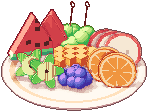
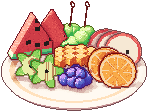
像素 skill：照拼豆图纸加颗粒、亮条、节间深色带、单色轮廓；可颂和果盘先用上
她发了可颂和果盘的拼豆图纸（一格一个色号 = 一个像素），让我看跟我画的哪不一样。对下来差五处：

1. 颜色：图纸一个可颂 11–18 色，近白淡黄到近黑深棕；我七档，跨度小
2. 颗粒：图纸同一块面上相邻两档一颗一颗掺着（酥皮质感）；我专门有一步清杂点把它们抹掉了
3. 折痕：图纸节间是两三颗宽的深色带、连到外轮廓；我是一像素细线
4. 高光：图纸每节上沿一条淡黄亮条、零星近白点；我是一片柔和高光
5. 轮廓：图纸只一种最深色；我描边里又贴一圈浓色，把台阶磨平了

## pixelkit

- `Material.grain`：清杂点之后按像素哈希把少量像素上下挪一档
- `Material.streak`：最亮两档里随机点亮（横向成段），往白里提 45%
- `Scene.seam / seam_depth / seam_all`：节间深线宽几像素、压暗几档、不同组相接就描（不管前后差）
- `Scene.inner_ring=False`：去掉描边里那圈浓色
- `Scene.contour=True`：两件东西相接时靠前那件描自己的轮廓色（可颂压在盘子上是深棕边，
  不是盘子被压暗的浅蓝）

## 用上

可颂：九色暖棕色阶（直接给）、颗粒 0.65、亮条、节间深带 2px/压暗 3 档、单色轮廓 + 接触描边。
果盘：每样水果加颗粒和亮条，西瓜籽纯黑，接触描边。

diff --git a/.claude/skills/pixel-art/pixelkit.py b/.claude/skills/pixel-art/pixelkit.py
@@ -151,6 +151,13 @@ class Material:
     shine: float = 0.55
     depth: float = 0.8
     style: Optional[str] = None
+    # 颗粒：同一块面上相邻两档颜色**一颗一颗掺着**（0..1）。
+    # 她给的拼豆图纸里，可颂一块面团上 A10 里夹着 G6、A26、A17——酥皮的质感全靠这个。
+    # 没有颗粒的面是一整片干净色块，看着像塑料。面包、蛋糕胚、木头、布给 0.4–0.7；瓷、玻璃、金属给 0。
+    grain: float = 0.0
+    # 高光亮条：受光最亮那一圈里，随机挑一些像素顶到最亮、再往亮里提一截（0..1）。
+    # 图纸里每一节隆起的上沿都有一条淡黄亮条、零星几颗近白的点。
+    streak: float = 0.0
     colors: list = field(default_factory=list)
 
     def __post_init__(self):
@@ -329,10 +336,22 @@ VIEWS = {
 
 class Scene:
     def __init__(self, size=96, view="iso", units=4.0, height=None,
-                 target=(0, 0, 0), light=(-0.55, 0.85, 0.45), dither=0.6):
+                 target=(0, 0, 0), light=(-0.55, 0.85, 0.45), dither=0.6,
+                 seam=1, seam_depth=2, inner_ring=True, seam_all=False, contour=False):
         """`size` 输出多少像素宽；`units` 画面宽对应世界里多少单位（决定颗粒度）。"""
         self.W = size
         self.H = height or size
+        # 节间深线：宽几个像素、压暗几档。图纸里可颂节与节之间是两三颗宽的深色带，一直连到外轮廓
+        self.seam = seam
+        self.seam_depth = seam_depth
+        # 不同组相接就描（不管前后差多少）。可颂一节压一节，前后差得少，不开这个描不出来
+        self.seam_all = seam_all
+        # 描边里面那一圈浓色。图纸的轮廓是**一种颜色一圈**，里面那圈会把台阶磨平——需要台阶感时关掉
+        self.inner_ring = inner_ring
+        # 两件东西相接时，**靠前那一侧描自己的轮廓色**（深色一圈）。
+        # 图纸里每样东西贴着别的东西的那条边都是它自己最深的颜色——可颂压在盘子上，
+        # 可颂那一圈是深棕，不是盘子被压暗的浅蓝
+        self.contour = contour
         self.units = units
         self.dither = dither
         yaw, pitch = VIEWS[view] if isinstance(view, str) else view
@@ -514,6 +533,7 @@ class Scene:
             _clean(col, lev, mat)
         if crease:
             _crease(col, lev, mat, grp, dep, N, sub, self)
+        _grain(col, lev, mat, sub)
         if outline:
             _outline(col, lev, mat, grp, dep, solid, self)
         if glass:
@@ -591,6 +611,8 @@ def _outline(col, lev, mat, grp, dep, items, scene):
     # 描边里面再贴一圈：压到这种材质的第二暗档。参照图的轮廓都是「深线 + 一道浓色」
     # 两层，只有一层深线的话东西像剪下来贴上去的
     inner = _edges(filled & ~edge) & ~edge
+    if not scene.inner_ring:
+        inner = np.zeros_like(inner)
     for i, m in matobj.items():
         mm = inner & (base_i == i)
         if mm.any() and not m.emissive:
@@ -607,18 +629,71 @@ def _outline(col, lev, mat, grp, dep, items, scene):
         diff = (grp[a] != grp[b]) & filled[a] & filled[b]
         dd = np.where(np.isfinite(dep), dep, 1e6)
         far = np.abs(dd[a] - dd[b]) > px * 1.5
-        m = diff & far
+        m = diff & (far | scene.seam_all)
         back_is_b = dep[b] > dep[a]
-        for sel, sl in ((m & back_is_b, b), (m & ~back_is_b, a)):
+        if scene.contour:
+            for sel, sl in ((m & back_is_b, a), (m & ~back_is_b, b)):
+                ys, xs = np.nonzero(sel)
+                ys = ys + sl[0].start; xs = xs + sl[1].start
+                for y, x in zip(ys, xs):
+                    mo = matobj.get(mat[y, x] // 16)
+                    if mo is not None and not mo.emissive:
+                        col[y, x, :3] = _outline_color(mo)
+        for sel, sl, sy, sx in ((m & back_is_b, b, dy, dx), (m & ~back_is_b, a, -dy, -dx)):
             ys, xs = np.nonzero(sel)
             ys = ys + sl[0].start; xs = xs + sl[1].start
-            for y, x in zip(ys, xs):
-                i = mat[y, x] // 16
-                mo = matobj.get(i)
-                if mo is None or mo.emissive:
-                    continue
-                k = max(0, lev[y, x] - 2)
-                col[y, x, :3] = np.array(mo.colors[k]) * 0.92
+            for y0, x0 in zip(ys, xs):
+                g0 = grp[y0, x0]
+                # 往靠后那一侧铺 `seam` 个像素，只铺在同一组里
+                for w in range(scene.seam):
+                    y, x = y0 + sy * w, x0 + sx * w
+                    if not (0 <= y < H and 0 <= x < W) or grp[y, x] != g0 or edge[y, x]:
+                        break
+                    i = mat[y, x] // 16
+                    mo = matobj.get(i)
+                    if mo is None or mo.emissive:
+                        break
+                    k = max(0, lev[y, x] - scene.seam_depth - (1 if w == 0 else 0))
+                    col[y, x, :3] = np.array(mo.colors[k]) * (0.9 if w == 0 else 0.96)
+
+
+def _pixhash(H, W, seed):
+    y = np.arange(H)[:, None].astype(np.int64)
+    x = np.arange(W)[None, :].astype(np.int64)
+    h = (y * 73856093) ^ (x * 19349663) ^ (seed * 83492791 + 12345)
+    h = (h ^ (h >> 13)) * 1274126177
+    return ((h ^ (h >> 16)) & 0xFFFF) / 65535.0
+
+
+def _grain(col, lev, mat, sub):
+    """颗粒和高光亮条（见 `Material.grain / streak`）。在清杂点**之后**做——
+    清杂点会把颗粒当噪点抹掉，颗粒是故意放的。"""
+    H, W = lev.shape
+    for k, sm in sub.items():
+        if sm.emissive or (sm.grain <= 0 and sm.streak <= 0):
+            continue
+        m = (mat == k) & (lev >= 0)
+        if not m.any():
+            continue
+        n = len(sm.colors)
+        cols = np.array(sm.colors)
+        if sm.grain > 0:
+            u = _pixhash(H, W, k + 1)
+            p = sm.grain * 0.22
+            up = m & (u < p) & (lev < n - 1)
+            dn = m & (u > 1 - p) & (lev > 0)
+            lev[up] += 1
+            lev[dn] -= 1
+            ch = up | dn
+            col[ch, :3] = cols[lev[ch]]
+        if sm.streak > 0:
+            u = _pixhash(H, W, k + 101)
+            # 亮条是横着的一小段：同一行相邻像素用同一个随机数（按 x//3 取）
+            u2 = np.roll(u, 1, axis=1)
+            hi = m & (lev >= n - 2) & ((u < sm.streak * 0.35) | (u2 < sm.streak * 0.25))
+            lev[hi] = n - 1
+            top_c = cols[n - 1]
+            col[hi, :3] = top_c + (1 - top_c) * 0.45
 
 
 def _crease(col, lev, mat, grp, dep, N, sub, scene):

diff --git a/scripts/px_tabletop.py b/scripts/px_tabletop.py
@@ -520,8 +520,13 @@ def croissant(s, R, T):
     # 这版每一节是一个**横着裹在面团上的卷**（沿弧的方向薄、横过弧的方向宽），
     # 节与节压得很紧（间距只有节宽的一半），大的压在小的上面，单独一组才描得出节间那道线。
     plate(s, color="#EEF2F6")
-    doughs = [M("d0", "#F0B25E", steps=7, gloss=0.45), M("d1", "#E9A452", steps=7, gloss=0.45)]
-    shine_m = M("shine", "#FBD592", steps=4)
+    # 照她给的拼豆图纸：一个可颂用十来种颜色，从近白的淡黄一路到深棕；面上一颗一颗掺着（颗粒），
+    # 每节隆起的上沿一条亮条；节与节之间两三颗宽的深色带，连到外轮廓；轮廓只一种最深的颜色。
+    s.seam, s.seam_depth, s.seam_all, s.inner_ring, s.contour = 2, 3, True, False, True
+    ramp_c = hexes("#8E4122", "#A9542A", "#C46A31", "#DA8233", "#E9983A", "#F2AE48", "#F7C35E", "#FAD27C")
+    doughs = [M("d0", "#EFA73E", colors=ramp_c, gloss=0.3, grain=0.65, streak=0.55, outline="#5E2C1C"),
+              M("d1", "#E5922F", colors=ramp_c[:-1], gloss=0.3, grain=0.65, streak=0.45, outline="#5E2C1C")]
+    shine_m = M("shine", "#FBDD92", colors=ramp_c[5:], grain=0.5)
     RAD = 1.25
     # 弧心在前面：中间那节在后、两头的尖朝观察者弯过来，斜俯视下看得出是个「C」
     C = T * 1.05
@@ -552,19 +557,21 @@ def fruitbowl(s, R, T):
     #   前排  杨桃（左）  蓝莓（中）  橙子片（右）
     # 每样都放大、挨着放，中心点前后错开大半个身位，前排自然盖住后排的下半截。
     plate(s, r=2.2, color="#FBF4EA", rim="#E7B98A")
-    melon = M("melon", "#F0605A", steps=6)
+    # 照拼豆图纸：每样水果自己的明暗跨度拉大、面上带颗粒、亮处点亮条；不同水果相接处都描一道线
+    s.seam, s.seam_depth, s.seam_all, s.inner_ring, s.contour = 1, 3, True, False, True
+    melon = M("melon", "#F0605A", steps=7, grain=0.45, streak=0.3)
     rind = M("rind", "#5FAE63", steps=4)
     rindw = M("rindw", "#EAF4D0", steps=3)
-    seed_m = M("seed", "#3A2A26", steps=2)
-    grape = M("grape", "#A9D36A", steps=5, gloss=0.8)
+    seed_m = M("seed", "#221A1A", colors=hexes("#221A1A", "#2E2424"))
+    grape = M("grape", "#A9D36A", steps=6, gloss=0.8, streak=0.5, grain=0.2)
     appleskin = M("apple", "#E24E4E", steps=5, gloss=0.6)
     applein = M("applein", "#FFF8E6", steps=4, shine=1.0, anchor=0.8)
-    orange = M("orange", "#F7A33A", steps=5)
+    orange = M("orange", "#F7A33A", steps=6, grain=0.4, streak=0.3)
     orpith = M("pith", "#FFE7B8", steps=3)
-    blue = M("blue", "#4F5FB8", steps=5, gloss=0.7)
+    blue = M("blue", "#4F5FB8", steps=6, gloss=0.7, grain=0.35, streak=0.5)
     bluecrown = M("bluecrown", "#2F3A7A", steps=2)
-    mango = M("mango", "#FFC54A", steps=5)
-    star = M("star", "#B9DB6A", steps=5)
+    mango = M("mango", "#FFC54A", steps=6, grain=0.4, streak=0.35)
+    star = M("star", "#B9DB6A", steps=6, grain=0.3, streak=0.3)
     starin = M("starin", "#E9F2B8", steps=3)
     pick = M("pick", "#C9A06A", steps=3)
     from pixelkit import Shape

diff --git a/.claude/skills/pixel-art/SKILL.md b/.claude/skills/pixel-art/SKILL.md
@@ -75,6 +75,17 @@ preview([img], "cup_look.png", zoom=4)
 - 像素食物普遍是 1 像素暖深棕描边、3–4 档平涂、几颗高光像素点；
   面包、蛋糕胚、冰拿铁分层靠**抖动噪点**做质感和过渡，不是整块平色
 
+### 从拼豆图纸学到的（她给的可颂 / 果盘图纸，一格一色号 = 一像素）
+跟算出来的「干净渲染」比，手画像素图多了这几样，**面包、糕点、水果这类要质感的东西都开上**：
+- **颜色多、跨度大**：一件东西 10–18 色，从近白一路到近黑。材质用 `colors=` 直接给一整串
+- **颗粒** `Material(grain=0.4–0.7)`：同一块面上相邻两档一颗一颗掺着（酥皮、蛋糕胚、果肉）。
+  清杂点在颗粒之前做，不会把颗粒抹掉
+- **高光亮条** `Material(streak=0.3–0.6)`：最亮那一圈里随机点亮、往白里提
+- **节间深色带** `Scene(seam=2, seam_depth=3, seam_all=True)`：节与节之间两三像素宽、压暗三档，一直接到外轮廓
+- **轮廓一种颜色** `Scene(inner_ring=False, contour=True)`：去掉描边里那圈浓色（会磨平台阶），
+  两件东西相接时靠前那件描自己的深色一圈（可颂压在盘子上是深棕边，不是盘子被压暗的浅蓝）
+- 这些参数可以在生成函数里直接改 `s.seam = 2` 这样设
+
 ### 同类的几个要放在同一条前后线上
 蛋糕上三根蜡烛前后错开摆，斜俯视下靠后那根显得又长又细、火苗被挡——她一眼看出来。
 几个同样的小件沿屏幕左右（iso 下世界 `(+x, -z)`）排开，看着才一样。
